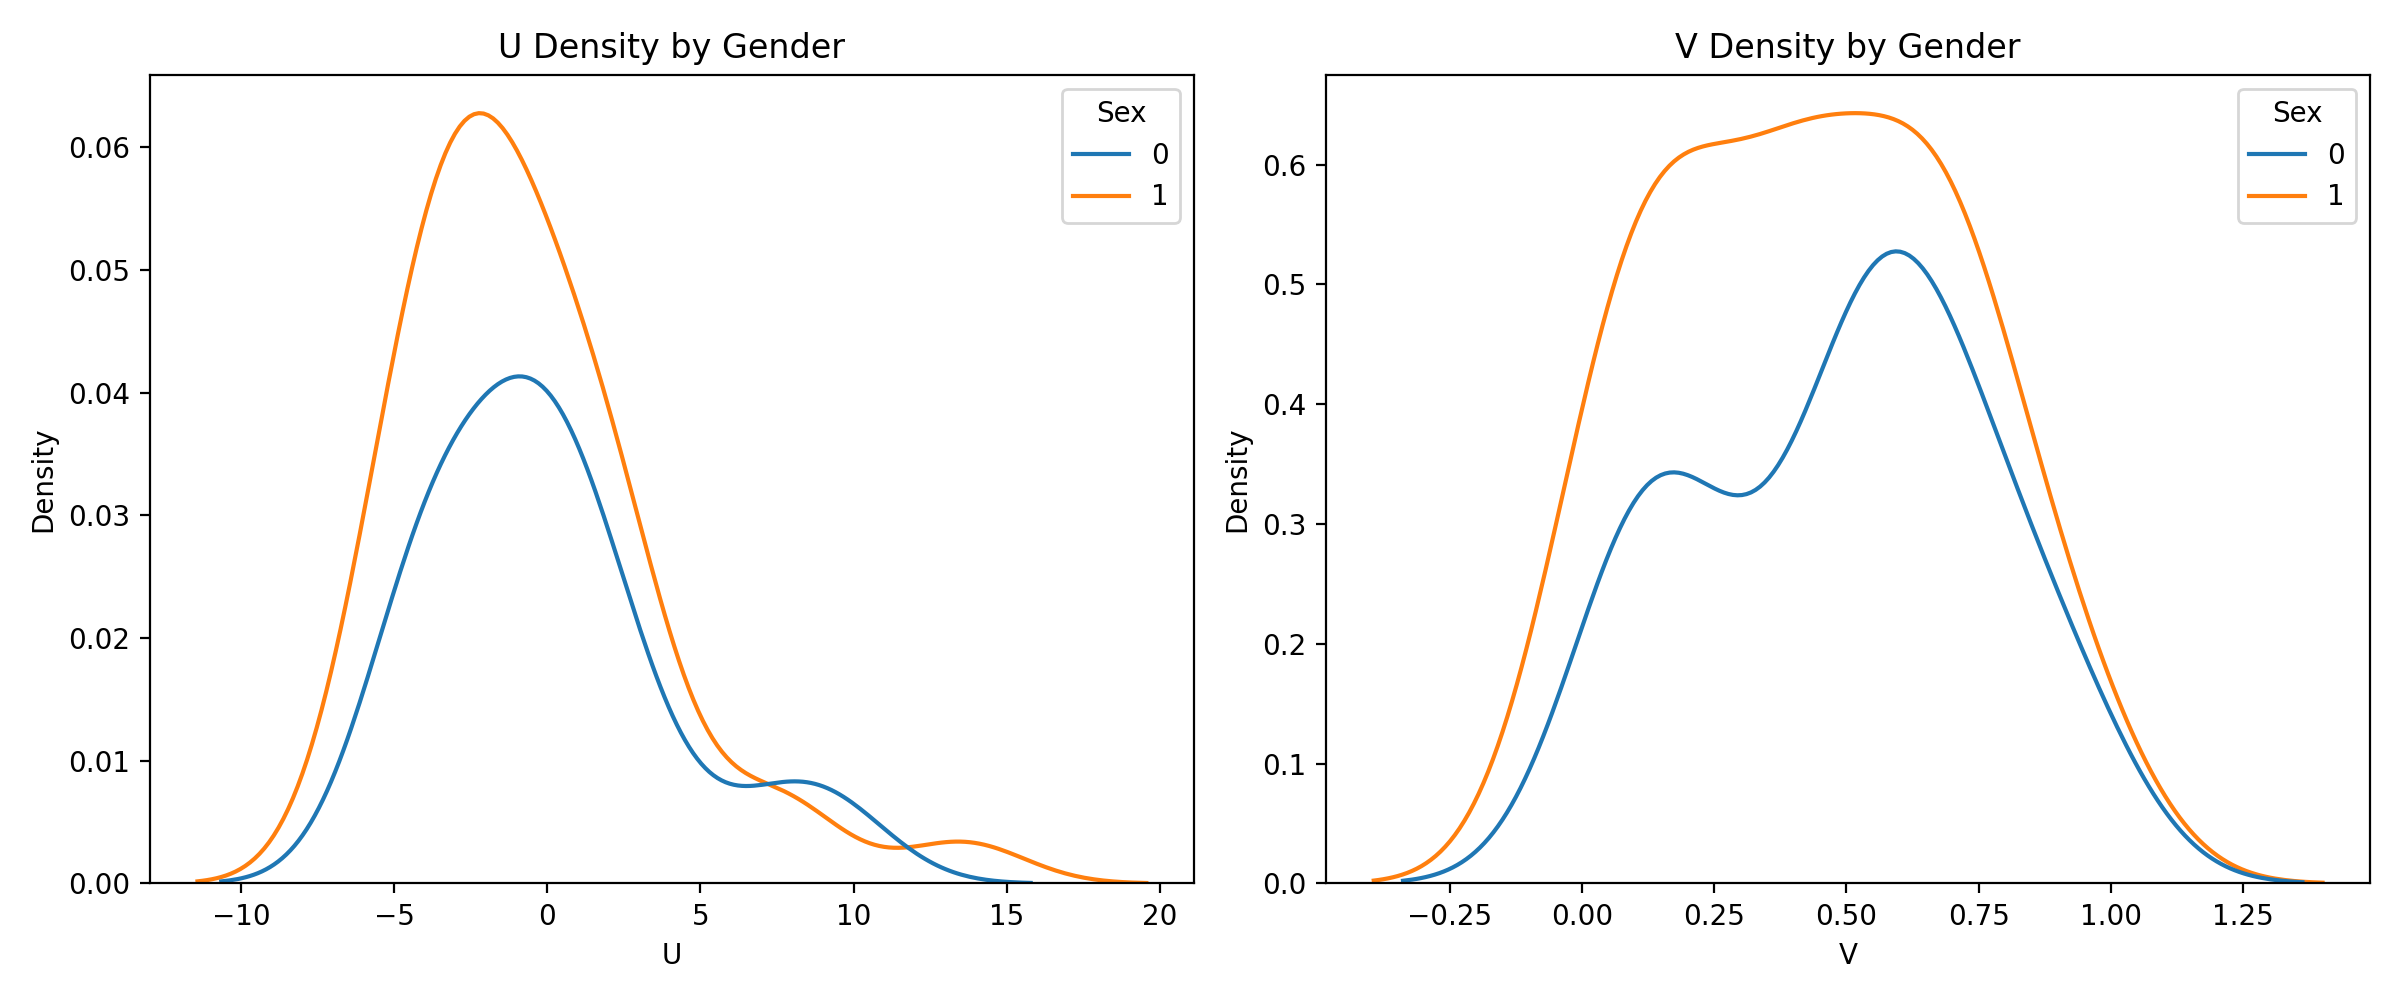
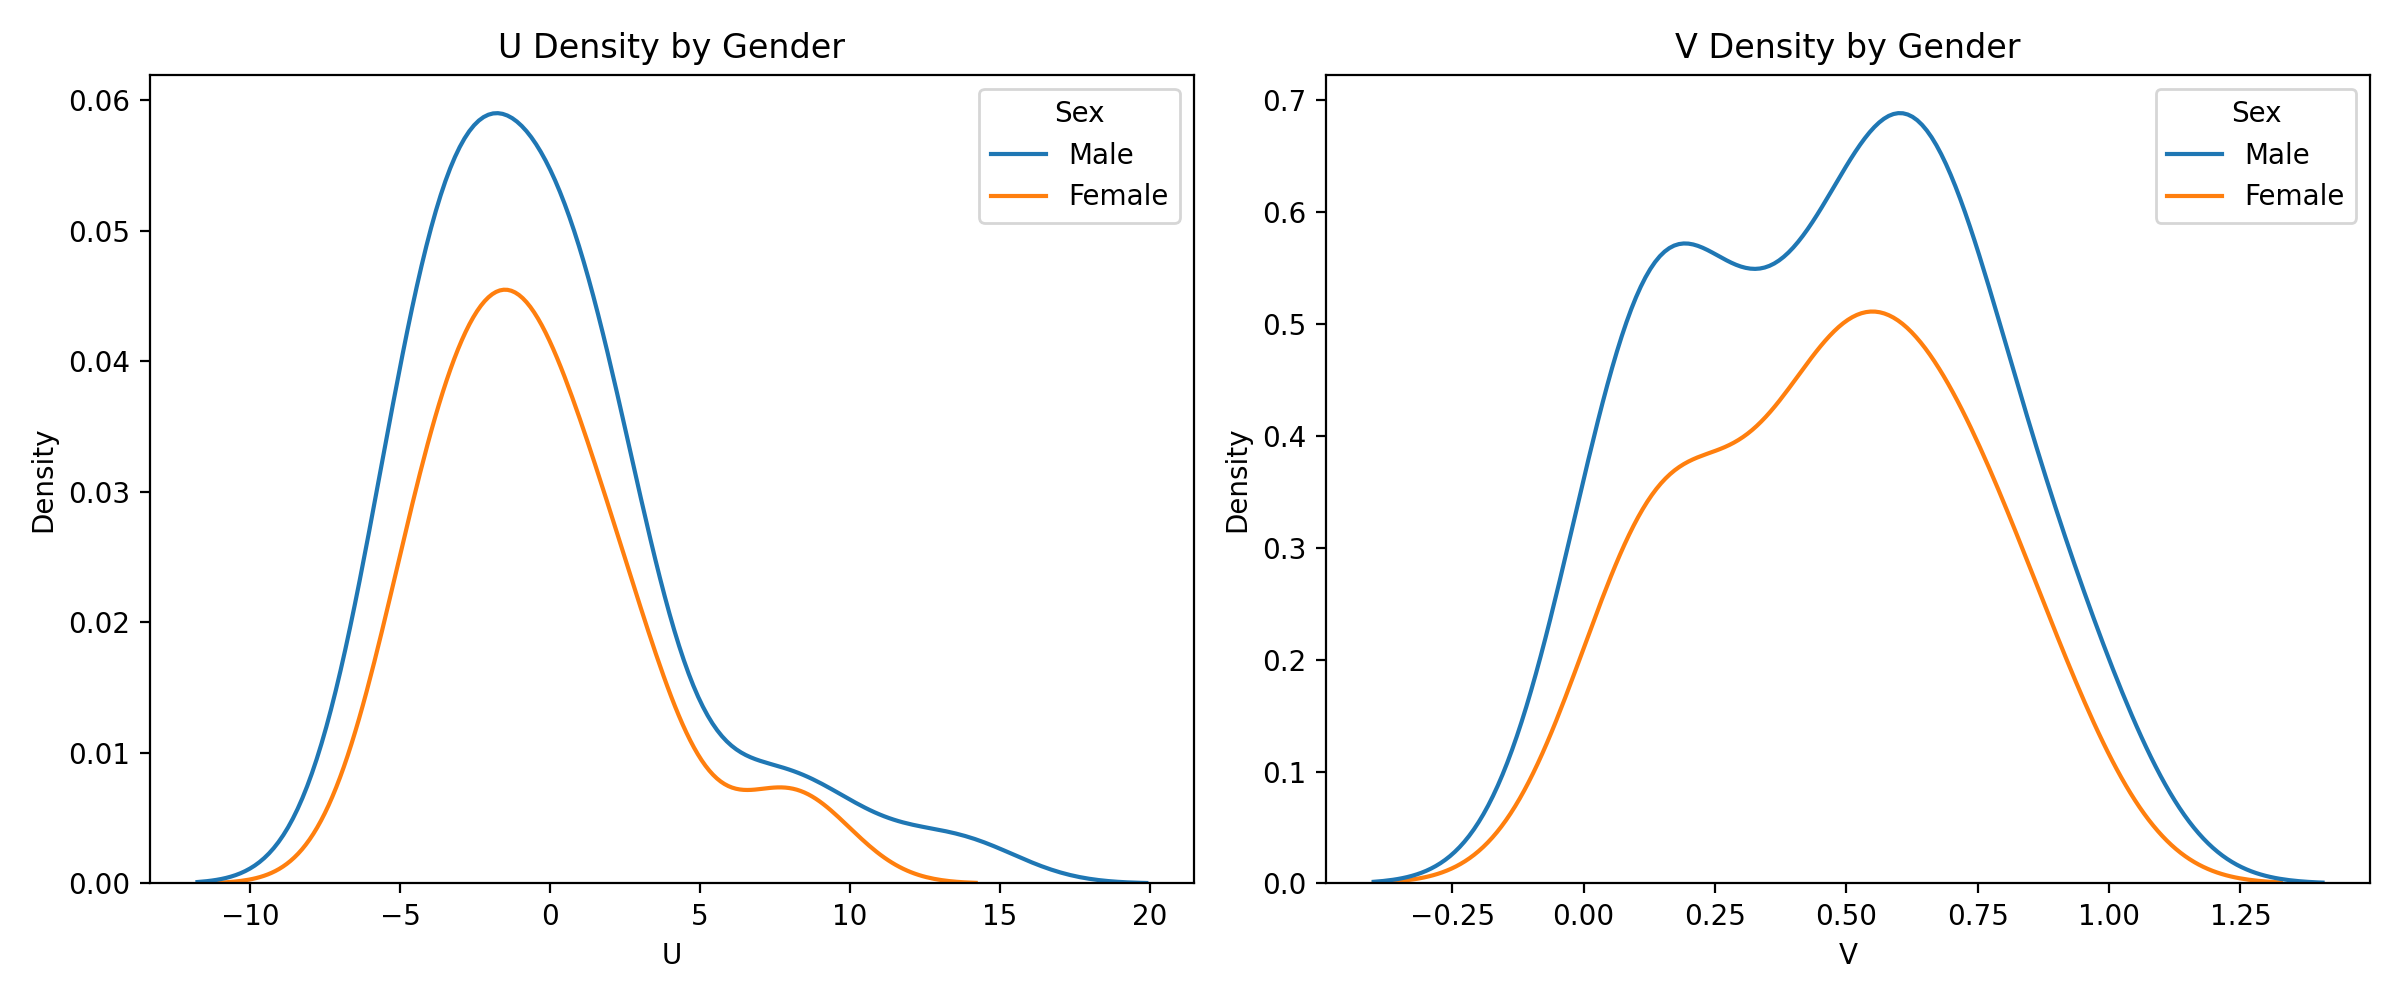
Updated the linked_polyad code to make sure that now it is exactly the same as R

diff --git a/sequenzo/multidomain/linked_polyad.py b/sequenzo/multidomain/linked_polyad.py
@@ -7,7 +7,7 @@
     seqpolyads function (R version 1.0.2, 29.12.20) for linked polyadic sequence analysis.
 
     Provided functionalities:
-    1. Customizable pairwise weighting (w)
+    1. Customizable pairwise weighting (pair_weights)
     2. Support for role-specific weights (role_weights)
     3. Support for weighted sampling (weights)
     4. Randomization method selection: a=1 (resample sequences), a=2 (resample states)
@@ -58,7 +58,9 @@ def linked_polyadic_sequence_analysis(seqlist: List[SequenceData],
                                       method: str = "OM",
                                       distance_parameters: dict = None,
                                       weights: np.ndarray = None,
+                                      rand_weight_type: int = 1,
                                       role_weights: List[float] = None,
+                                      pair_weights: np.ndarray = None,
                                       T: int = 1000,
                                       random_seed: int = 36963,
                                       replace: bool = True,
@@ -68,20 +70,29 @@ def linked_polyadic_sequence_analysis(seqlist: List[SequenceData],
     """
     Calculate U and V statistics for linked polyadic sequence data.
 
+    Provided functionalities:
+    1. Customizable pairwise weighting (pair_weights)
+    2. Support for role-specific weights (role_weights)
+    3. Support for weighted sampling (weights)
+    4. Randomization method selection: a=1 (resample sequences), a=2 (resample states)
+    5. Multi-core parallel processing (n_jobs)
+    6. Full reproducibility via random_seed control
+    7. Outputs include observed distances, randomized distances, U, V, V>0.95 dummy, and mean observed/random distances
+
     :param seqlist: List of SequenceData objects to analyze.
     :param a: Randomization type. 1 = resample sequences; 2 = resample states within sequences.
     :param method: Distance measure method ('HAM', 'OM', 'CHI2', etc.).
     :param distance_parameters: Dictionary of additional keyword arguments for distance calculation.
     :param weights: Sampling weights for sequences when generating random polyads.
+    :param rand_weight_type: Strategy for computing randomization weights (1 = uniform, 2 = sample-weight-based).
     :param role_weights: Role-specific importance weights for different sequence sources.
+    :param pair_weights: Pairwise weights for distance averaging.
     :param T: Number of randomizations performed.
     :param random_seed: Seed for random number generator to ensure reproducibility.
     :param replace: Whether to sample with replacement during randomization.
     :param n_jobs: Number of parallel workers for randomization; set to -1 to use all CPUs.
     :param verbose: Whether to display a progress bar during randomization.
     :param return_df: If True, return formatted DataFrame instead of dictionary.
-
-    :return: Either a dictionary or a formatted DataFrame depending on return_df.
 
     Dictionary containing:
     - 'mean.dist': Mean observed and random distances
@@ -107,7 +118,9 @@ def linked_polyadic_sequence_analysis(seqlist: List[SequenceData],
         role_weights = [1.0 / P] * P
     role_weights = np.array(role_weights)
 
-    # 添加角色标签 + 唯一 ID
+    if pair_weights is None:
+        pair_weights = np.ones(int(P * (P - 1) / 2))
+
     tagged_dfs = []
     for i, sd in enumerate(seqlist):
         df = sd.to_dataframe().copy()
@@ -123,27 +136,32 @@ def linked_polyadic_sequence_analysis(seqlist: List[SequenceData],
         id_col="__id__"
     )
 
-    alldist = get_distance_matrix(merged_seqdata, method=method, **distance_parameters)
-    alldist = np.asarray(alldist)
-
+    alldist = np.asarray(get_distance_matrix(merged_seqdata, method=method, **distance_parameters))
     cj = np.array([n * p for p in range(P)])
-    rng = np.random.default_rng(seed=random_seed)
 
     if weights is None:
         weights = np.ones(n) / n
 
-    def random_sample_once(_):
-        local_rng = np.random.default_rng(random_seed + _)
-        sample_indices = (cj + local_rng.choice(n, size=P, replace=replace, p=weights)).astype(int).flatten()
+    def weighted_mean(mat):
+        return np.average(mat[np.triu_indices(P, 1)], weights=pair_weights)
+
+    l_m = np.zeros((T, P), dtype=int)
+
+    def random_sample_once(i):
+        local_rng = np.random.default_rng(random_seed + i)
+        sampled = local_rng.choice(n, size=P, replace=replace, p=weights)
+        l_m[i] = sampled
+        sample_indices = cj + sampled
 
         if a == 1:
-            return np.mean(alldist[np.ix_(sample_indices, sample_indices)][np.triu_indices(P, 1)])
+            mat = alldist[np.ix_(sample_indices, sample_indices)]
+            return weighted_mean(mat)
         elif a == 2:
             df = merged_seqdata.to_dataframe().drop(columns="__id__")
-            sampled = df.iloc[sample_indices].reset_index(drop=True)
-            shuffled = sampled.apply(lambda row: local_rng.choice(row, size=seq_length, replace=replace),
-                                     axis=1, result_type="broadcast")
-            shuffled["__id__"] = [f"Rand_{_}_{j}" for j in range(len(shuffled))]
+            sampled_df = df.iloc[sample_indices].reset_index(drop=True)
+            shuffled = sampled_df.apply(lambda row: local_rng.choice(row, size=seq_length, replace=replace),
+                                        axis=1, result_type="broadcast")
+            shuffled["__id__"] = [f"Rand_{i}_{j}" for j in range(len(shuffled))]
             seq_shuffled = SequenceData(
                 data=shuffled,
                 time=merged_seqdata.time,
@@ -151,8 +169,8 @@ def linked_polyadic_sequence_analysis(seqlist: List[SequenceData],
                 states=merged_seqdata.states,
                 id_col="__id__"
             )
-            dmat = get_distance_matrix(seq_shuffled, method=method, **distance_parameters)
-            return np.mean(np.asarray(dmat)[np.triu_indices(P, 1)])
+            dmat = np.asarray(get_distance_matrix(seq_shuffled, method=method, **distance_parameters))
+            return weighted_mean(dmat)
         else:
             raise ValueError("Invalid randomization type 'a'. Should be 1 or 2.")
 
@@ -163,13 +181,24 @@ def linked_polyadic_sequence_analysis(seqlist: List[SequenceData],
     observed_dists = []
     for i in range(n):
         indices = [i + n * p for p in range(P)]
-        obs_dist = np.mean(alldist[np.ix_(indices, indices)][np.triu_indices(P, 1)])
-        observed_dists.append(obs_dist)
+        mat = alldist[np.ix_(indices, indices)]
+        observed_dists.append(weighted_mean(mat))
     observed_dists = np.array(observed_dists)
 
-    mean_rand_dist = np.mean(random_dists)
+    if rand_weight_type == 2:
+        p_weights = np.array([np.sum(weights[sampled]) for sampled in l_m])
+    else:
+        p_weights = 1.0
+
+    l_weights = np.zeros(T)
+    for i in range(T):
+        sampled = l_m[i]
+        l_weights[i] = np.sum(weights[sampled] * role_weights / p_weights[i] if rand_weight_type == 2 else p_weights)
+    l_weights /= np.sum(l_weights)
+
+    mean_rand_dist = np.sum(random_dists * l_weights)
     U = mean_rand_dist - observed_dists
-    V = np.array([(observed_dists[i] < random_dists).mean() for i in range(n)])
+    V = np.array([np.sum((observed_dists[i] < random_dists) * l_weights) for i in range(n)])
     V_95 = (V > 0.95).astype(int)
 
     result = {

diff --git a/Tutorials/multidomain_sequence_analysis/polyadic.py b/Tutorials/multidomain_sequence_analysis/polyadic.py
@@ -1,3 +1,42 @@
+"""
+@Author  : Yuqi Liang 梁彧祺
+@File    : polyadic.py
+@Time    : 30/04/2025 10:39
+@Desc    :
+
+    ObservedDist:
+    The average observed pairwise distance between sequences in each polyad (e.g. child + parents),
+    based on the specified distance method (e.g. "HAM").
+    This measures actual similarity within the group.
+
+    U:
+    The difference between the mean randomized distance across T simulations and the observed distance:
+    U = mean_random_distance - observed_distance.
+
+    V:
+    The proportion of randomized distances greater than the observed distance.
+    V = P(D_random > D_observed) over the T randomizations.
+    Values near 1.0 suggest that the observed sequences are much more similar than random groupings.
+
+    V>0.95
+    A binary indicator (0 or 1):
+    if V > 0.95, meaning the similarity in the polyad is statistically significant at the 5% level.
+    Useful as a flag for identifying meaningful linked lives.
+
+    Example interpretation:
+        ObservedDist: 18.0
+        U: -1.43
+        V: 0.430
+        V>0.95: 0
+
+        This polyad has:
+        1. An observed average distance of 18.0
+        2. U is negative → its sequences are less similar than expected
+        3. V is 0.43 → 43% of random pairings are more dissimilar → not statistically significant
+        4. V>0.95 = 0 → no strong linked life pattern
+
+    # TODO: Last row of the result_df is null in gender.
+"""
 import pandas as pd
 from sequenzo import *
 import seaborn as sns
@@ -48,11 +87,15 @@ result_df = linked_polyadic_sequence_analysis(
 # 4. View results
 print(result_df.head())
 
-# 5. Optional: Plot by gender (assuming you have a sample_df that contains sex information)
+# 5. Plot by gender (assuming you have a sample_df that contains sex information)
 df_samplec1 = load_dataset("polyadic_samplec1")  # Contains 'sex' column (0 = female, 1 = male)
 
 # Add gender information
-result_df["Sex"] = df_samplec1["sex"].values
+result_df["Sex"] = df_samplec1["sex"].map({0: "Female", 1: "Male"})
+
+print("Number of significant polyads (V > 0.95):", result_df["V>0.95"].sum())
+
+result_df.to_csv('polyadic_result_df.csv', index=False)
 
 # 6. Plot density of U and V by gender
 
